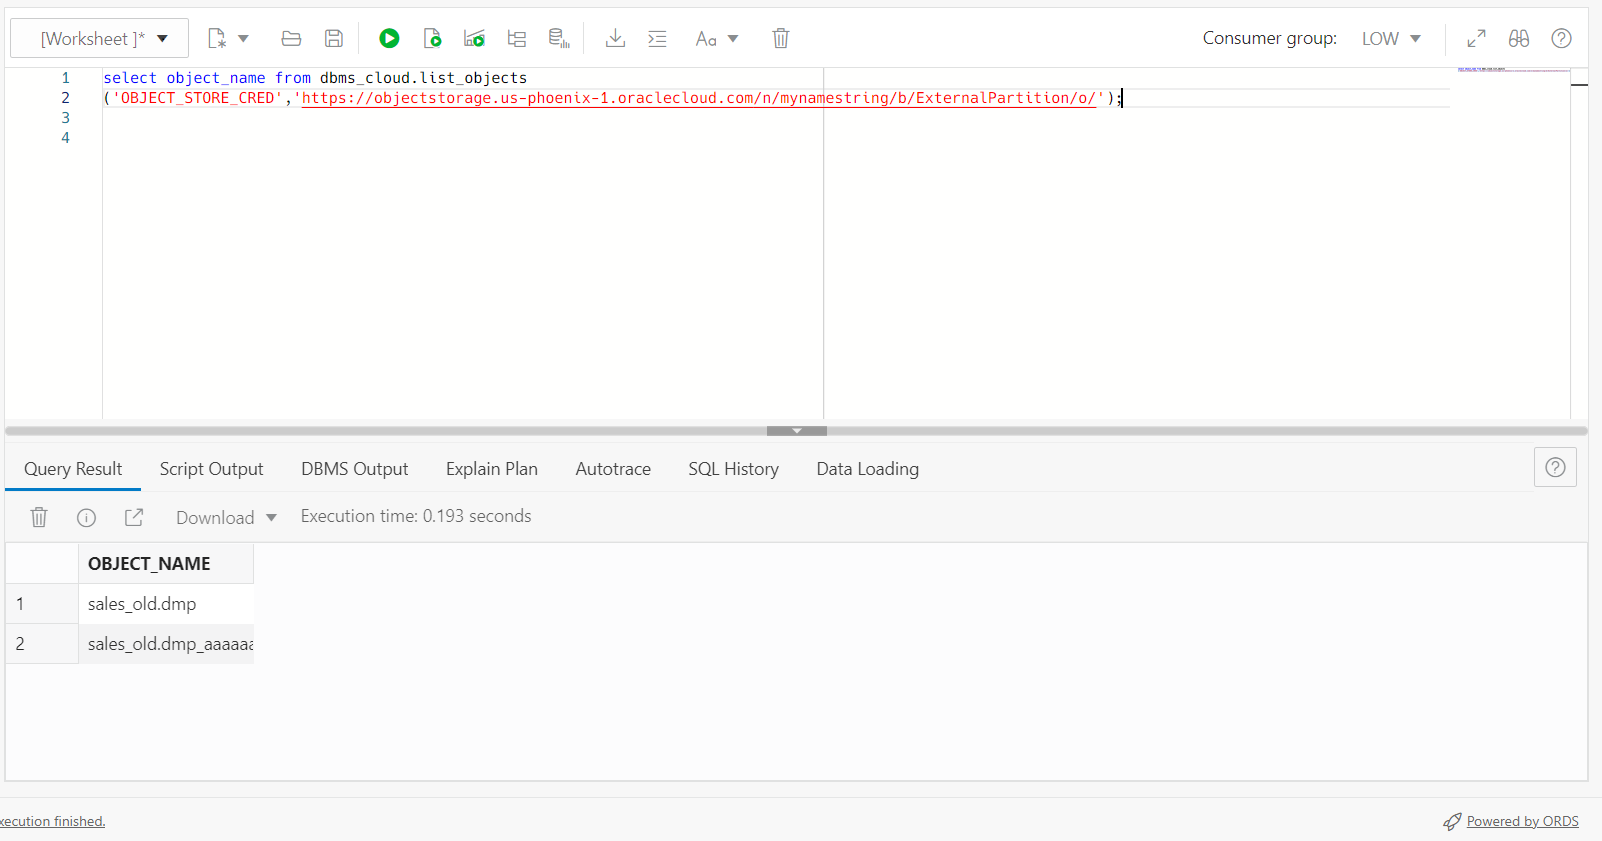
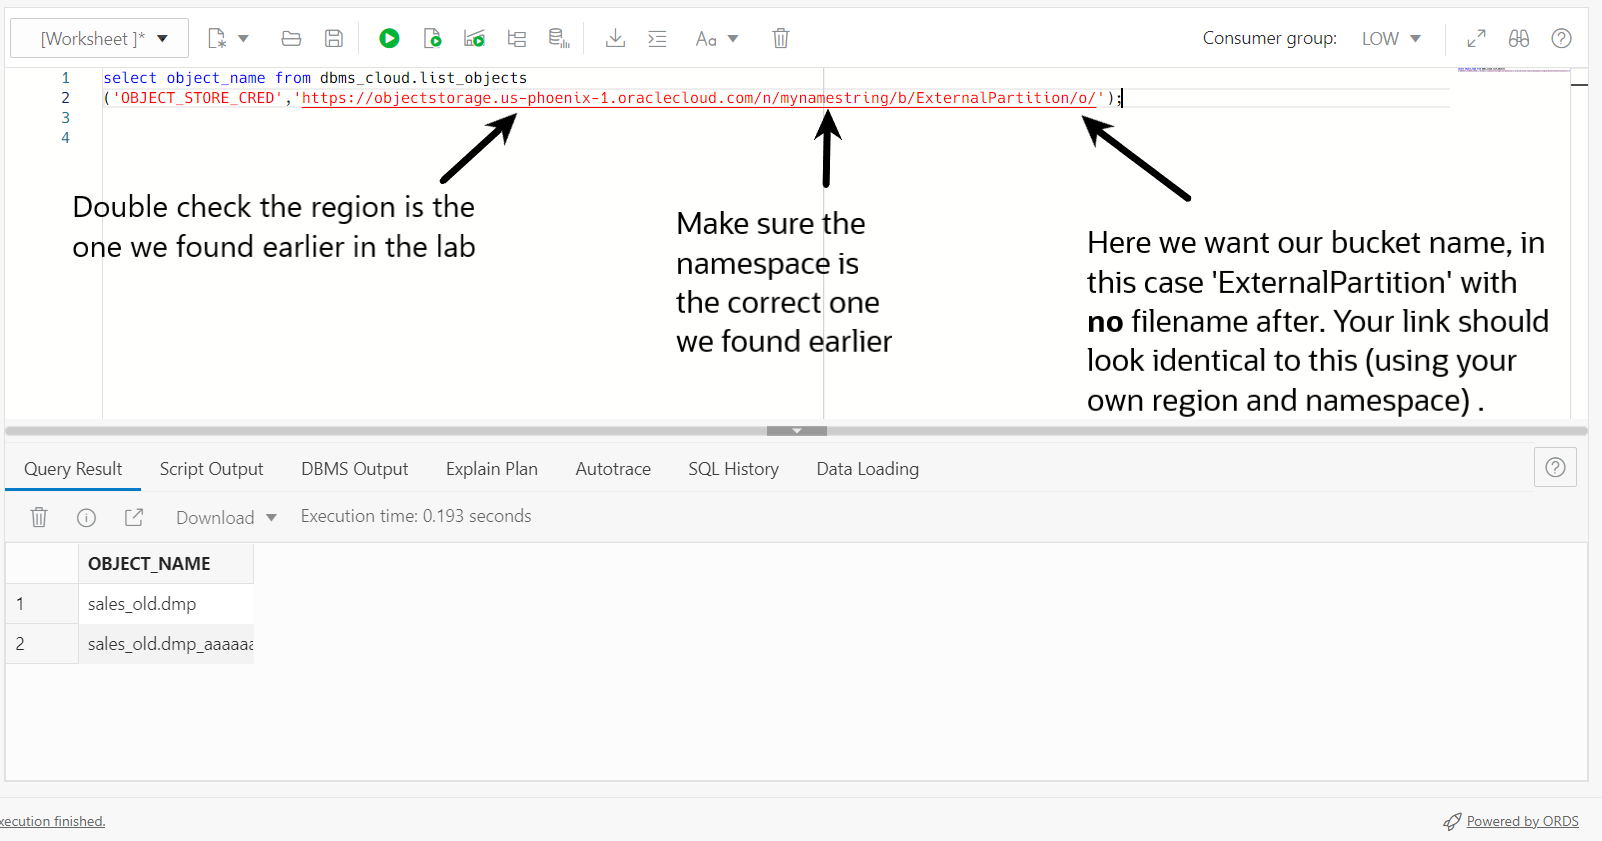
WMS ID 3900 (#130)
* WMS ID 3900

Requested changes from Kay

* WMS ID 3900

Adding intro video per Kays instructions

diff --git a/db-19c-fundamentals/sql-macros/sql-macros.md b/db-19c-fundamentals/sql-macros/sql-macros.md
@@ -239,7 +239,7 @@ CREATE TABLE RockBuster_locations (
 );
     </copy>
     ```
-2. Lets add some data to our table.
+2. Lets add some data to our table. We will use the **Run Script button** for the remainder of this lab. Its located in the Database Actions console as shown in the gif below. (F5) works as well
 
     ```
     <copy>
@@ -249,36 +249,37 @@ INSERT INTO ROCKBUSTER_LOCATIONS VALUES ( 3, 2025550139, 'New York', 10003);
 INSERT INTO ROCKBUSTER_LOCATIONS VALUES ( 4, 2025550152, 'New York', 10004);
     </copy>
     ```
+    ![run with the script button](./images/run-script.gif)
 
-3. Here we will go ahead and add a constrain and create an index on the locations by state. 
+3. Here we will go ahead and add a constraint and create an index on the locations by state. Lets use the **Run script button** as shown above. (F5) works as well.
 
     ```
     <copy>
-    ALTER TABLE ROCKBUSTER_LOCATIONS add constraint location_pk PRIMARY KEY (store_id);
-create index location_index on RockBuster_locations(state);
+    ALTER TABLE ROCKBUSTER_LOCATIONS ADD CONSTRAINT location_pk PRIMARY KEY (store_id);
+CREATE index location_index ON RockBuster_locations(state);
     </copy>
     ```
 
-4. Now that we have some test data lets move our table. Run the select statement after the alter table move. Notice how our Indexes are now Unstable. This is because the index is now referencing the wrong location.
+4. Now that we have some test data lets move our table. Run the select statement after the alter table move. Notice how our Indexes are now Unstable. This is because the index is now referencing the wrong location. Lets use the **Run Script button** again 
 
     ```
     <copy>
     ALTER TABLE RockBuster_locations MOVE;
-SELECT index_name, status FROM user_indexes where index_name = 'LOCATION_INDEX' OR index_name = 'LOCATION_PK';
+SELECT index_name, status FROM user_indexes WHERE index_name = 'LOCATION_INDEX' OR index_name = 'LOCATION_PK';
     </copy>
     ```
 
-5. We will go ahead now and rebuild our indexes. run the command below to rebuild both.
+5. We will go ahead now and rebuild our indexes. Use the Run Script button and run the commands below to rebuild both.
 
     ```
     <copy>
-    alter index location_index REBUILD ONLINE;
-alter index location_pk REBUILD ONLINE;
-SELECT index_name, status FROM user_indexes where index_name = 'LOCATION_INDEX' OR index_name = 'LOCATION_PK';
+    ALTER index location_index REBUILD ONLINE;
+ALTER index location_pk REBUILD ONLINE;
+SELECT index_name, status FROM user_indexes WHERE index_name = 'LOCATION_INDEX' OR index_name = 'LOCATION_PK';
     </copy>
     ```
 
-6. Now we will move our table using the ONLINE keyword. Not only does this move the table but this automatically maintains the indexes.
+6. Now we will move our table using the ONLINE keyword. Not only does this move the table but this automatically maintains the indexes. Use the Run Script button or press (F5)
 
     ```
    <copy>
@@ -288,24 +289,20 @@ SELECT index_name, status FROM user_indexes where index_name = 'LOCATION_INDEX' 
     ```
 
 
-7. We also have the ability to change table compression and other storage parameters ann online operation. We can first see that our Rockbuster table is uncompressed. 
+7. We also have the ability to change table compression and other storage parameters as an online operation. We can first see that our Rockbuster table is uncompressed. 
 
     ```
     <copy>
-    SELECT compression
-    FROM   user_tables
-    WHERE  table_name = 'ROCKBUSTER_LOCATIONS';
+    SELECT compression FROM user_tables WHERE table_name = 'ROCKBUSTER_LOCATIONS';
     </copy>
     ```
 
- Now we can move our table with compression.
+ Now we can move our table with compression. Use the Run Script button or press (F5) to execute the commands.
 
    ```
    <copy>
     ALTER TABLE RockBuster_locations MOVE ONLINE COMPRESS;
-    SELECT compression
-    FROM   user_tables
-    WHERE  table_name = 'ROCKBUSTER_LOCATIONS';
+    SELECT compression FROM user_tables WHERE table_name = 'ROCKBUSTER_LOCATIONS';
     </copy>
     ```
  To recap, you now have the ability to perform a table move online, as well as individual partitions and sub-partitions without the need for an outage to support the reorganization of tables. This means the table indexes will be maintained for you as well. Online table move also has the ability to filter and compress data as part of a move. For more on this see the Learn More section

diff --git a/db-19c-fundamentals/hybrid-partitioned-tables/partitioning.md b/db-19c-fundamentals/hybrid-partitioned-tables/partitioning.md
@@ -193,12 +193,20 @@ END;
     ```
    ![Export Data](./images/export-data.png " ")
 
-4.  We can check our object storage bucket with the following. We will need our file\_uri\_list we used above **without** the file name. Something like the following 
+4.  We can check our object storage bucket with the following. We will need our file\_uri\_list we used above **without** the file name. We can copy the uri from above and **take off the sales_old.dmp**.
 
- 
-    >SELECT object\_name FROM DBMS\_CLOUD.LIST\_OBJECTS('OBJECT\_STORE\_CRED','https:/objectstorage.**us-phoenix-1**.oraclecloud.com/n/**mynamespace**/b/**ExternalPartition**/o/');
+    ```
+    <copy>
+SELECT object_name FROM DBMS_CLOUD.LIST_OBJECTS('OBJECT_STORE_CRED','LINK FROM ABOVE WITHOUT SALES_OLD.DMP');
+
+    </copy>
+    ```
+
+    > **Note**: If you get an error here double and triple check the region, namespace, and bucket name. You can take the https:// **link from the step above** (Step 3) and **remove** the sales_old.dmp. We want the link to end with the .../o/' See picture below for an example
 
     ![Display objects in storage](./images/objects.png " ")
+
+  
 5. Last, lets drop the internal Sales\_old table we created above so it only exists as a external file in Object Storage.
 
     ```
@@ -225,7 +233,9 @@ Hybrid Partitioned Tables support many partition level operations, including:
 -	Full partition wise refreshing on external partitions
 -   DML trigger operations on a hybrid partitioned table on internal partitions
 
-1. First we will create our Hybrid Partitioned table. **Make sure you update the external location to YOUR bucket**. Your ''URI'' will go the middle of the 2 sets of single quotes. See the picture below the code box if needed. You will use the location of our Sales_old.dmp file that you made note of earlier as the external location. 
+1. First we will create our Hybrid Partitioned table. **Make sure you update the external location to YOUR bucket**. Your ''URI'' will go the middle of the 2 sets of single quotes. See the picture below the code box if needed. **You will use the location of our Sales_old.dmp** file that you made note of earlier as the external location. 
+
+  ![Create Hybrid Table](./images/updatinguri.gif " ")
 
 
     ```
@@ -256,7 +266,7 @@ Hybrid Partitioned Tables support many partition level operations, including:
     </copy>
     ```
 
-     ![Create Hybrid Table](./images/make-hybrid-table.png " ")
+     
 
 2. Now we're going to add data into our partitions 2019, 2020 and 2021.
 
@@ -307,7 +317,10 @@ Hybrid Partitioned Tables support many partition level operations, including:
       ![Read Only](./images/read-only.png " ")
 
 
-4. Now we will export our sales_2019 partition data to object storage using DBMS\_CLOUD.EXPORT\_DATA functionality like we did at the beginning of this lab. **Make sure to update the URI with your link**. Leave your URI in single quotes. Like this 'yourURI'. **Lets call this file sales2019.dmp**
+4. Now we will export our sales_2019 partition data to object storage using DBMS\_CLOUD.EXPORT\_DATA functionality like we did at the beginning of this lab. **Make sure to update the URI with your link**. Leave your URI in single quotes. Like this 'yourURI'. **Lets call this file sales2019.dmp**. See photo below for an example 
+
+    > **Note**: Troubleshooting tip - If you're having a problem with the URI, this is the same URI we have been using in the previous steps, **double check** the file name is now sales2019.dmp, you can locate the file name at the end of the URI
+
 
     ```
     <copy>
@@ -321,6 +334,8 @@ Hybrid Partitioned Tables support many partition level operations, including:
 END;
     </copy>
     ```
+
+  ![Update the URI by the file_uri_list](./images/sales2019.png " ")
 
 5. In order to use the EXCHANGE statement, we will need to build an external table to do the exchange with. That statement looks like the following below. **Make sure to update the URI with your link**. Leave your URI in single quotes. Like this 'yourURI'. See picture below the code box if needed. We will use the file sales2019.dmp we created above.
 

diff --git a/db-19c-fundamentals/json-in-the-db/json-in-the-db.md b/db-19c-fundamentals/json-in-the-db/json-in-the-db.md
@@ -31,24 +31,32 @@ In this lab, you will:
 
 	![Database Action](./images/database-actions.png)
 
-2. Next, select the JSON tile on the left hand side of the screen.
+2. If you're not automatically logged in, sign in as ADMIN. Your password will be the password you specified when you created the database.
+
+	![Database Actions Login](./images/db-actions-login.png)
+
+3. (Optional database password reset) If you need to reset your database password its very simple to do so. Click on **More actions** from the OCI console screen and select **Administrator Password**. Fill in your new password and select **Change**. After you select **Change**, follow from step 1 above.
+
+	![Reset DB Password](./images/db-password-reset.png)
+
+4. Next, select the JSON tile on the left hand side of the screen.
 
 	![JSON Database Actions](./images/db-actions-json.png)
 
 
-3. To create a collection, click **Create Collection**.
+5. To create a collection, click **Create Collection**.
 
 	![Create Collection](./images/create-collection.png)
 
-4. Provide a name for the collection in the field, we'll call it  **products** and click **Create**. MAKE SURE you check the **MongoDB Compatible** box. Note that the collection name is case-sensitive. You must enter products in all lower-case, don't use PRODUCTS or Products.
+6. Provide a name for the collection in the field, we'll call it  **products** and click **Create**. MAKE SURE you check the **MongoDB Compatible** box. Note that the collection name is case-sensitive. You must enter products in all lower-case, don't use PRODUCTS or Products.
 
 	![New collection: products](./images/new-products.png)
 
-5. A notification pops up informing you the `products` collections is created.
+7. A notification pops up informing you the `products` collections is created.
 
 	![New collection notification](./images/popup.png)
 
-6. Click the refresh button to verify the `products` collection is created.
+8. Click the refresh button to verify the `products` collection is created.
 
 	![Refresh button](./images/refreshed.png)
 
@@ -235,6 +243,8 @@ More generally, constraints can be used to check the data being entered for vari
 1.  Let's add a check - or 'constraint' to check our data entry. We will do this using SQL Developer Web. Click the navigation menu on the top left and select **SQL** under Development.
 
 	![SQL navigation](./images/nav.png)
+
+> **Note**: Ignore the warning message about being logged in as ADMIN. This is a demo, not a best practice.
 
 2. Check constraint to make sure every product has a title of string data type and price >=0. 
 

diff --git a/db-19c-fundamentals/intro/introduction-ocw.md b/db-19c-fundamentals/intro/introduction-ocw.md
@@ -2,6 +2,8 @@
 
 This workshop contains several hands-on labs that showcase some of the latest enhancements in the long term Oracle Database support release, 19c. This is not a complete list of new features. Our mission is not just to manage your data but help you get value out of your data. For the world’s most demanding enterprise applications and workloads, Oracle Database 19c is a converged database that delivers a high performance, highly available, secure and scalable data management platform for cloud as well as on-premises environments.
 
+[](youtube:aF89i0m6zFU)
+
 ## About Oracle Database 19c
 
 The 19c generation of Oracle's converged database offers customers; best of breed support for all data types (e.g. relational, JSON, XML, spatial, graph, OLAP, etc.), and industry leading performance, scalability, availability and security for all their operational, analytical and other mixed workloads. Oracle database 19c is also the most advanced SQL engine in the world. It supports fully consistent data with ACID transaction guarantees along with consistent queries and it complies with the latest ISO SQL standard, making it not only the most comprehensive database but also the most open one. On top of the world class relational and transactional support, Oracle 19c supports a myriad of other workloads and data types like JSON in the database. JSON is supported natively with relational database features, including transactions, indexing, declarative querying, and views. This ability to support different workloads and data types goes back to the concept discussed earlier about the aspect of a converged database.
